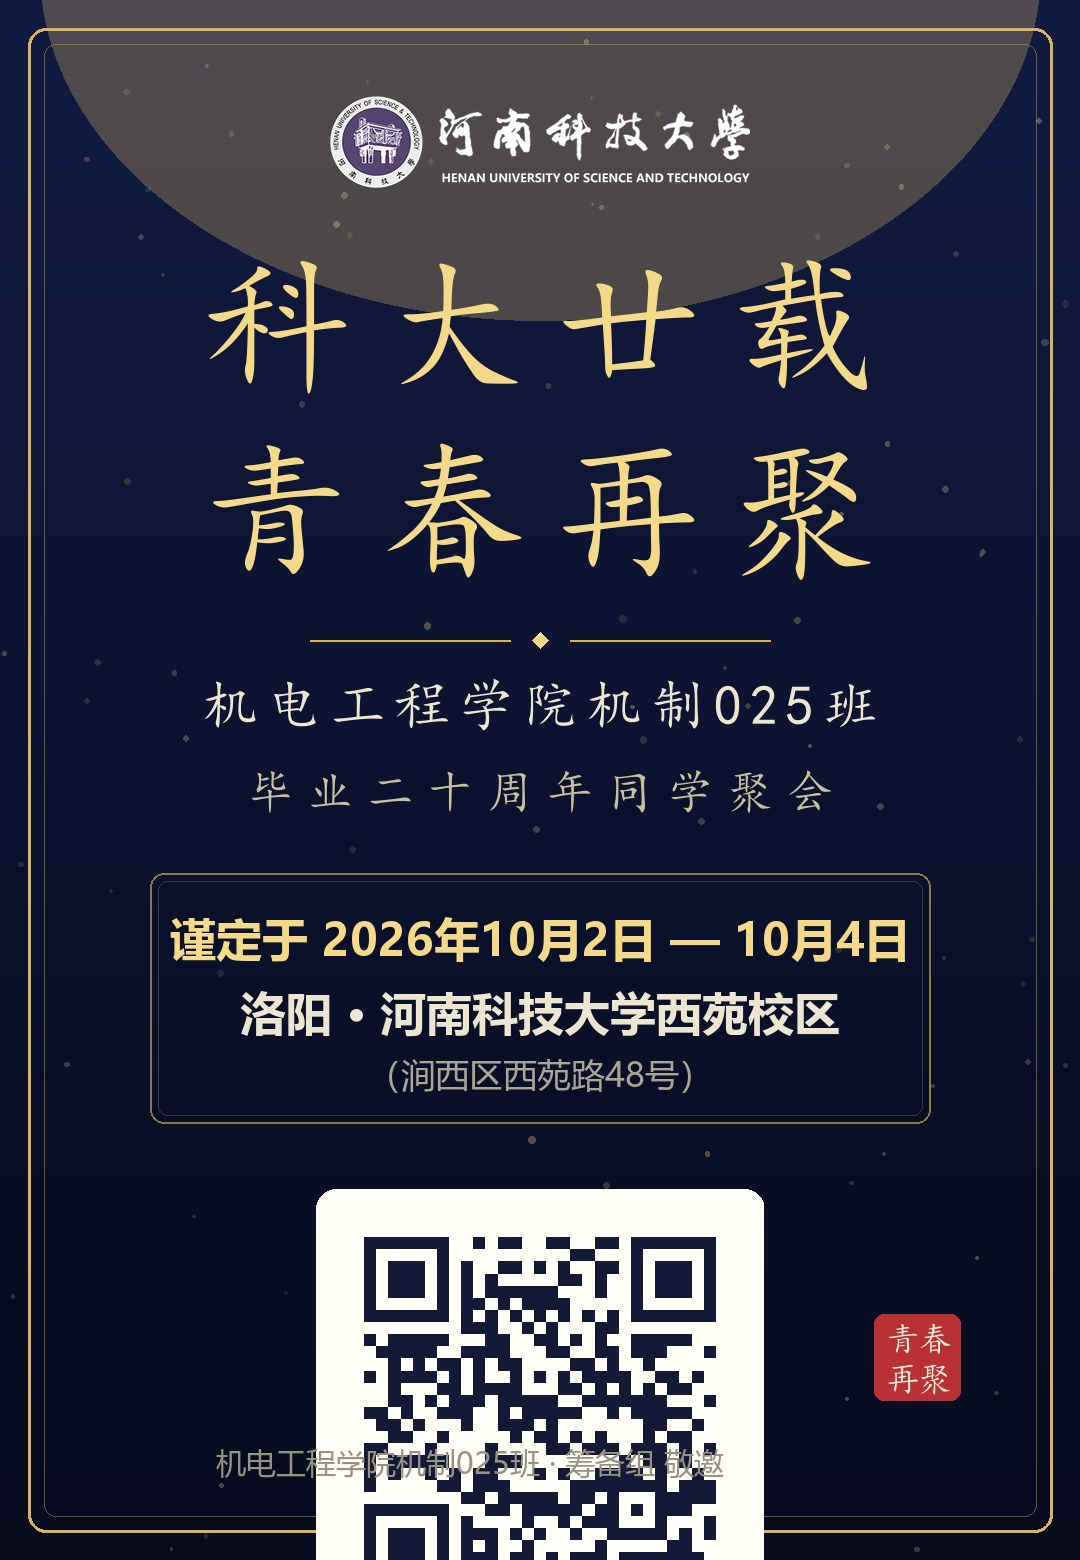
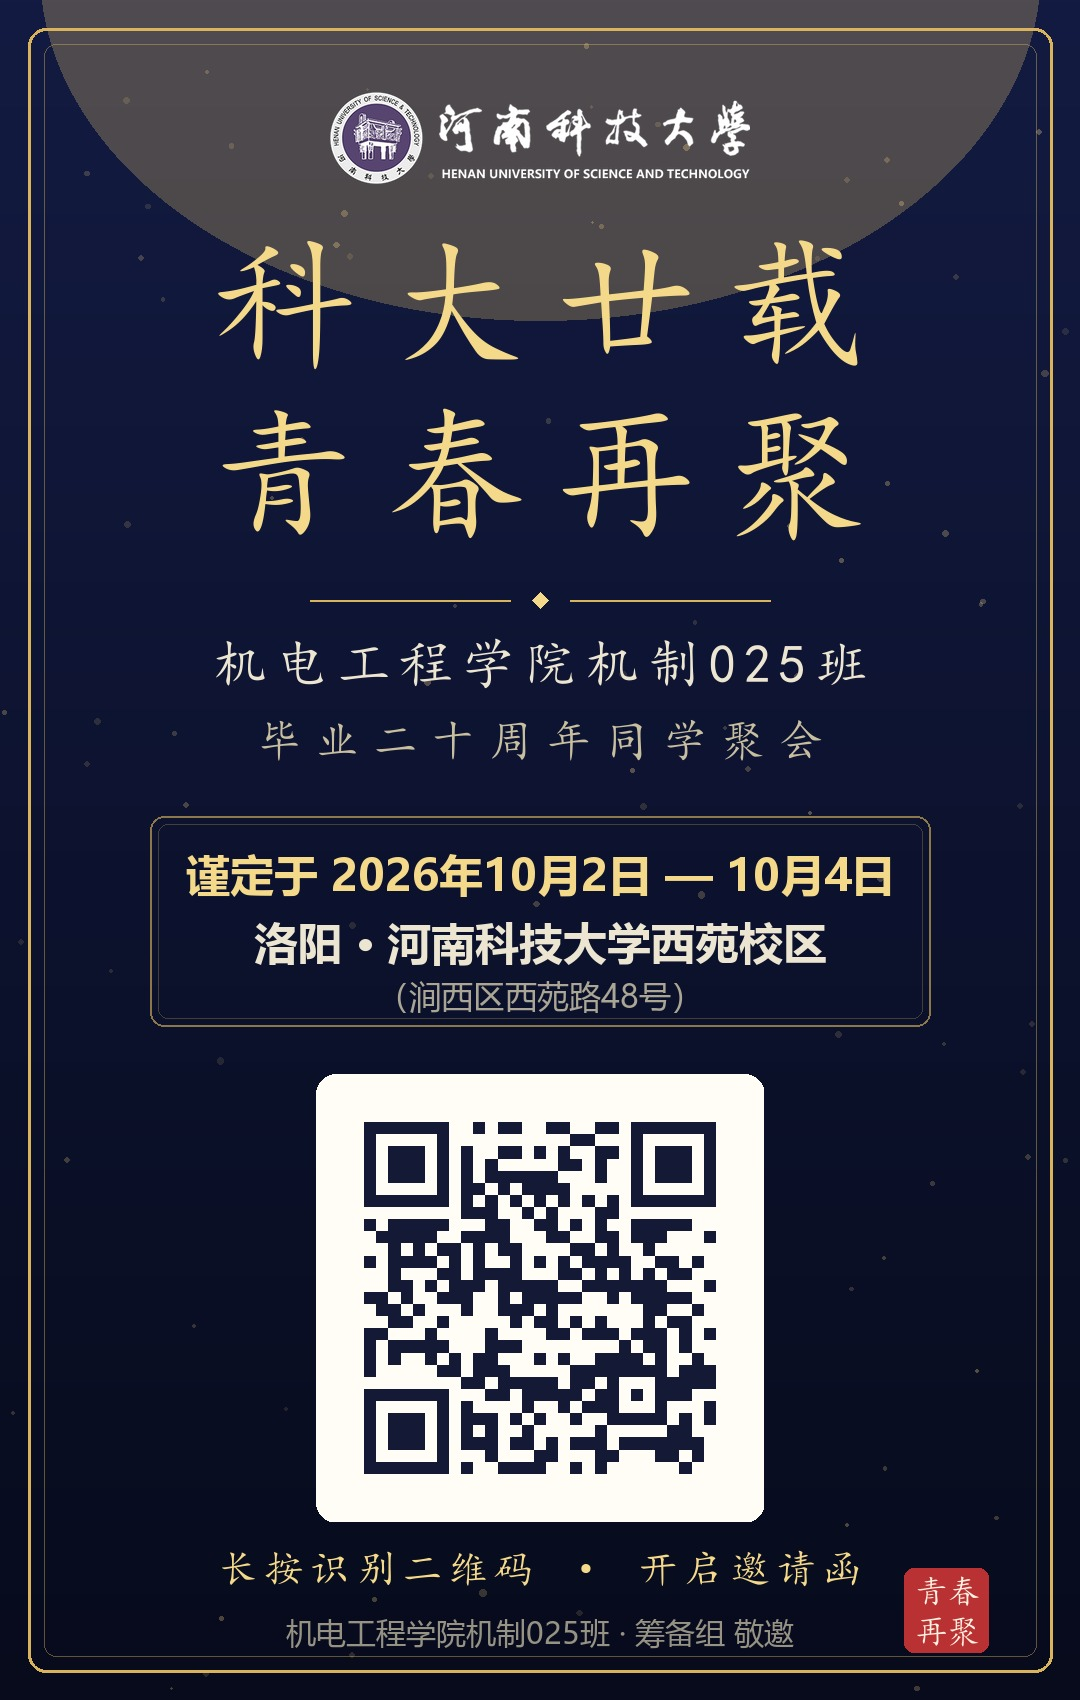
修复海报版式：二维码曾越界压字，重排全部坐标并加自检（画布1080x1700）

diff --git a/make_share_assets.py b/make_share_assets.py
@@ -57,91 +57,86 @@ def make_qr(url, box=860, border=2):
     return img.resize((box, box), Image.NEAREST)
 
 def make_poster(path):
-    W, H = 1080, 1560
-    im = vgrad(W, H, NAVY1, NAVY0)  # 顶部稍亮
-    # 顶部金色光晕
-    glow = Image.new("RGB", (W, H), (0, 0, 0))
-    gd = ImageDraw.Draw(glow)
-    gd.ellipse([W//2-500, -380, W//2+500, 320], fill=(60, 48, 14))
-    im = Image.blend(im, Image.blend(im, glow, 0.0), 0.0)  # placeholder
-    im = Image.composite(Image.new("RGB",(W,H),(0,0,0)), im, Image.new("L",(W,H),0))
-    # 用加法混合光晕
+    W, H = 1080, 1700
+    im = vgrad(W, H, NAVY1, NAVY0)
     from PIL import ImageChops
+    glow = Image.new("RGB", (W, H), (0, 0, 0))
+    ImageDraw.Draw(glow).ellipse([W//2-500, -380, W//2+500, 320], fill=(60, 48, 14))
     im = ImageChops.add(im, glow)
     gold_dots(im, 90)
     d = ImageDraw.Draw(im, "RGBA")
+    boxes = {}
 
-    # 双金边框
     d.rounded_rectangle([28, 28, W-28, H-28], radius=18, outline=GOLD, width=3)
     d.rounded_rectangle([44, 44, W-44, H-44], radius=12, outline=(217,180,92,110), width=1)
 
     cx = W // 2
-    # 校徽
     logo = Image.open("logo.png").convert("RGBA")
-    lw = 420
-    lh = int(logo.height * lw / logo.width)
+    lw = 420; lh = int(logo.height * lw / logo.width)
     logo = logo.resize((lw, lh), Image.LANCZOS)
-    im.paste(logo, (cx - lw//2, 96), logo)
+    im.paste(logo, (cx - lw//2, 92), logo)
+    boxes['校徽'] = [92, 92+lh]
     d = ImageDraw.Draw(im, "RGBA")
 
-    # 主标题
-    y = 250
-    f_title = font(KAI, 150)
-    center_text(d, cx, y, "科大廿载", f_title, GOLD_B, ls=26)
-    y += 185
-    center_text(d, cx, y, "青春再聚", f_title, GOLD_B, ls=26)
+    f_title = font(KAI, 145)
+    center_text(d, cx, 230, "科大廿载", f_title, GOLD_B, ls=26); boxes['标题1'] = [230, 375]
+    center_text(d, cx, 400, "青春再聚", f_title, GOLD_B, ls=26); boxes['标题2'] = [400, 545]
 
-    # 分隔线
-    y += 205
+    y = 600
     d.line([cx-230, y, cx-30, y], fill=GOLD, width=2)
     d.line([cx+30, y, cx+230, y], fill=GOLD, width=2)
     d.polygon([cx, y-8, cx+8, y, cx, y+8, cx-8, y], fill=GOLD_B)
+    boxes['分隔线'] = [y, y]
 
-    # 副标题
-    y += 36
-    f_sub = font(KAI, 56)
-    center_text(d, cx, y, "机电工程学院机制025班", f_sub, INK, ls=8)
-    y += 92
-    center_text(d, cx, y, "毕业二十周年同学聚会", font(KAI, 46), (200, 190, 160), ls=14)
+    center_text(d, cx, 636, "机电工程学院机制025班", font(KAI, 54), INK, ls=8); boxes['副题1'] = [636, 690]
+    center_text(d, cx, 718, "毕业二十周年同学聚会", font(KAI, 44), (200,190,160), ls=14); boxes['副题2'] = [718, 762]
 
-    # 信息框
-    y += 105
-    box = [150, y, W-150, y+250]
+    by = 816
+    box = [150, by, W-150, by+210]
     d.rounded_rectangle(box, radius=14, outline=(217,180,92,160), width=2)
     d.rounded_rectangle([box[0]+8, box[1]+8, box[2]-8, box[3]-8], radius=10, outline=(217,180,92,70), width=1)
-    f_info = font(YHB, 46, 0)
-    center_text(d, cx, y+34, "谨定于 2026年10月2日 — 10月4日", f_info, GOLD_B)
-    center_text(d, cx, y+108, "洛阳 · 河南科技大学西苑校区", f_info, INK)
-    center_text(d, cx, y+178, "（涧西区西苑路48号）", font(YH, 34, 0), (170, 165, 148))
+    center_text(d, cx, by+28, "谨定于 2026年10月2日 — 10月4日", font(YHB, 44, 0), GOLD_B)
+    center_text(d, cx, by+96, "洛阳 · 河南科技大学西苑校区", font(YHB, 44, 0), INK)
+    center_text(d, cx, by+158, "（涧西区西苑路48号）", font(YH, 32, 0), (170, 165, 148))
+    boxes['信息框'] = [by, by+210]
 
-    # 二维码
     qr = make_qr("https://haust-reunion.surge.sh/", 400)
-    qy = box[3] + 66
-    pad = 24
-    qw, qh = qr.size
-    card = Image.new("RGB", (qw+pad*2, qh+pad*2), (255, 253, 246))
+    qy = 1074; pad = 24
+    card = Image.new("RGB", (qr.width+pad*2, qr.height+pad*2), (255, 253, 246))
     card.paste(qr, (pad, pad))
-    r = 20
     mask = Image.new("L", card.size, 0)
-    ImageDraw.Draw(mask).rounded_rectangle([0,0,card.width,card.height], radius=r, fill=255)
+    ImageDraw.Draw(mask).rounded_rectangle([0,0,card.width,card.height], radius=20, fill=255)
     im.paste(card, (cx - card.width//2, qy), mask)
     d = ImageDraw.Draw(im, "RGBA")
+    boxes['二维码'] = [qy, qy+card.height]
 
-    # 二维码说明
     ty = qy + card.height + 26
-    center_text(d, cx, ty, "长按识别二维码 · 开启邀请函", font(KAI, 42), GOLD_B, ls=6)
+    center_text(d, cx, ty, "长按识别二维码 · 开启邀请函", font(KAI, 40), GOLD_B, ls=6)
+    boxes['码说明'] = [ty, ty+46]
 
-    # 底部落款 + 红印章
-    by = H - 118
-    center_text(d, cx-70, by, "机电工程学院机制025班 · 筹备组 敬邀", font(YH, 30, 0), (150, 146, 132))
-    # 印章
-    ss = 86
-    sx, sy = W-206, H-246
-    d.rounded_rectangle([sx, sy, sx+ss, sy+ss], radius=10, fill=(200, 52, 52, 235))
-    f_stamp = font(KAI, 34)
+    sy = 1612
+    center_text(d, cx, sy, "机电工程学院机制025班 · 筹备组 敬邀", font(YH, 30, 0), (150, 146, 132))
+    boxes['落款'] = [sy, sy+36]
+    ss = 84; sx = W-176; syy = 1568
+    d.rounded_rectangle([sx, syy, sx+ss, syy+ss], radius=10, fill=(200, 52, 52, 235))
+    f_stamp = font(KAI, 33)
     for i, ch in enumerate("青春再聚"):
-        d.text((sx + 12 + (i%2)*32, sy + 7 + (i//2)*40), ch, font=f_stamp, fill=(255, 242, 228))
+        d.text((sx + 11 + (i%2)*32, syy + 6 + (i//2)*40), ch, font=f_stamp, fill=(255, 242, 228))
+    boxes['印章'] = [syy, syy+ss]
 
+    # 自检：所有元素必须在边框(44..H-44)内，且二维码不得与文字重叠
+    border_top, border_bottom = 44, H-44
+    ok = True
+    for name, (t, b) in boxes.items():
+        if t < border_top or b > border_bottom:
+            print(f"  ✗ {name} 越界: y{t}-{b}"); ok = False
+    qrt, qrb = boxes['二维码']
+    for name in ('落款','码说明','印章','信息框','副题2'):
+        t, b = boxes[name]
+        if not (b <= qrt or t >= qrb):
+            print(f"  ✗ {name} 与二维码重叠"); ok = False
+    print("  ✓ 全部元素坐标自检:", "通过" if ok else "未通过")
+    for k, v in boxes.items(): print(f"  {k}: y{v[0]}-{v[1]}")
     im.save(path, quality=92)
     print("海报:", path, im.size)
 
